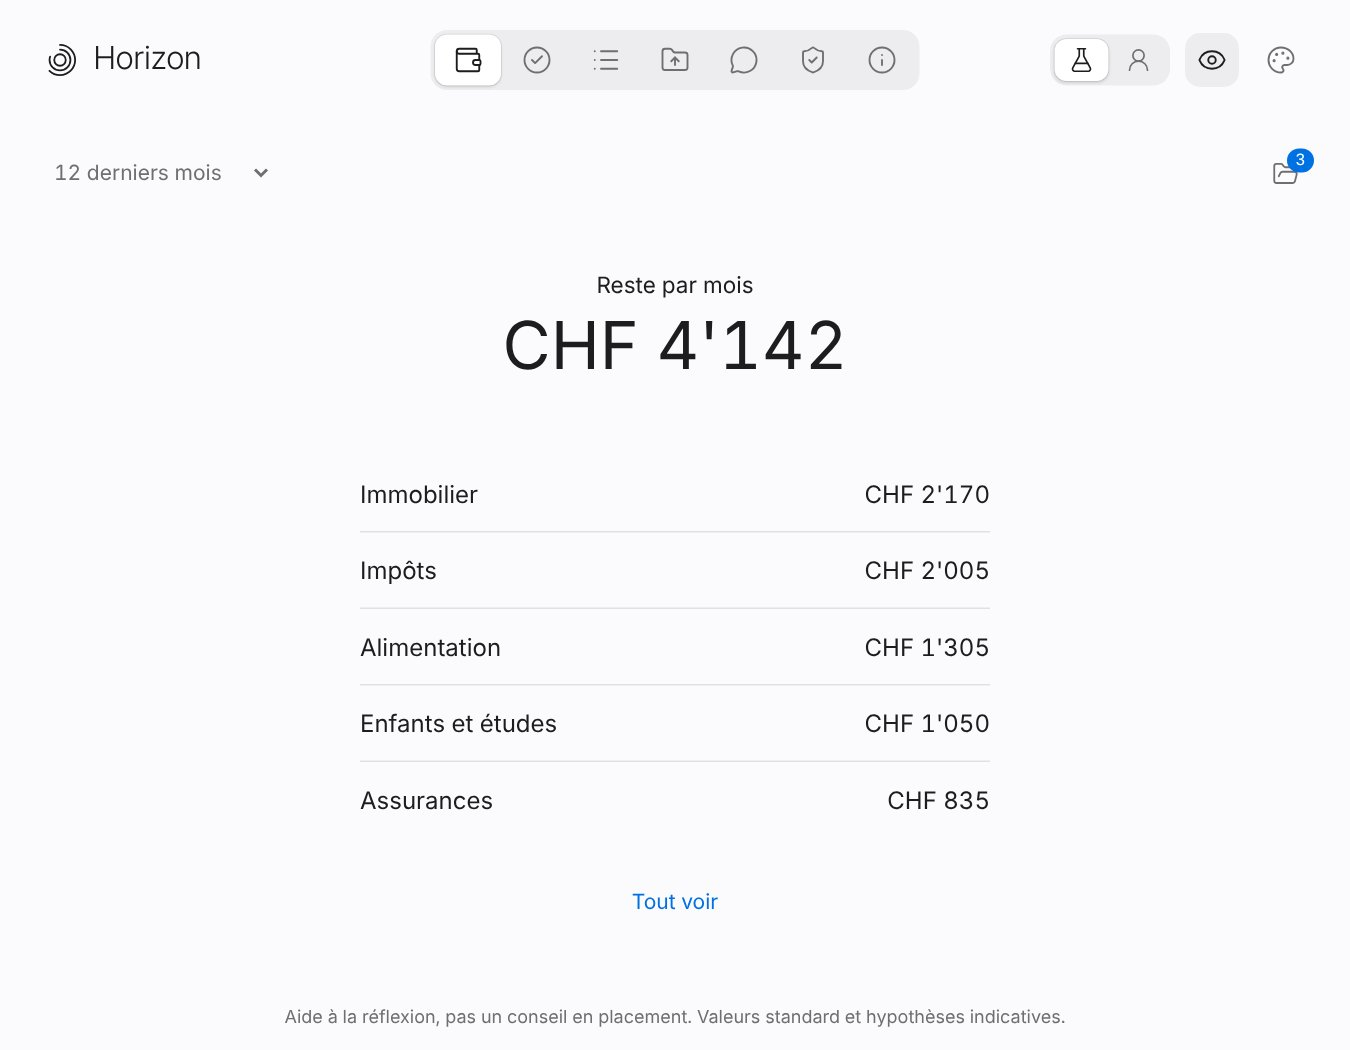
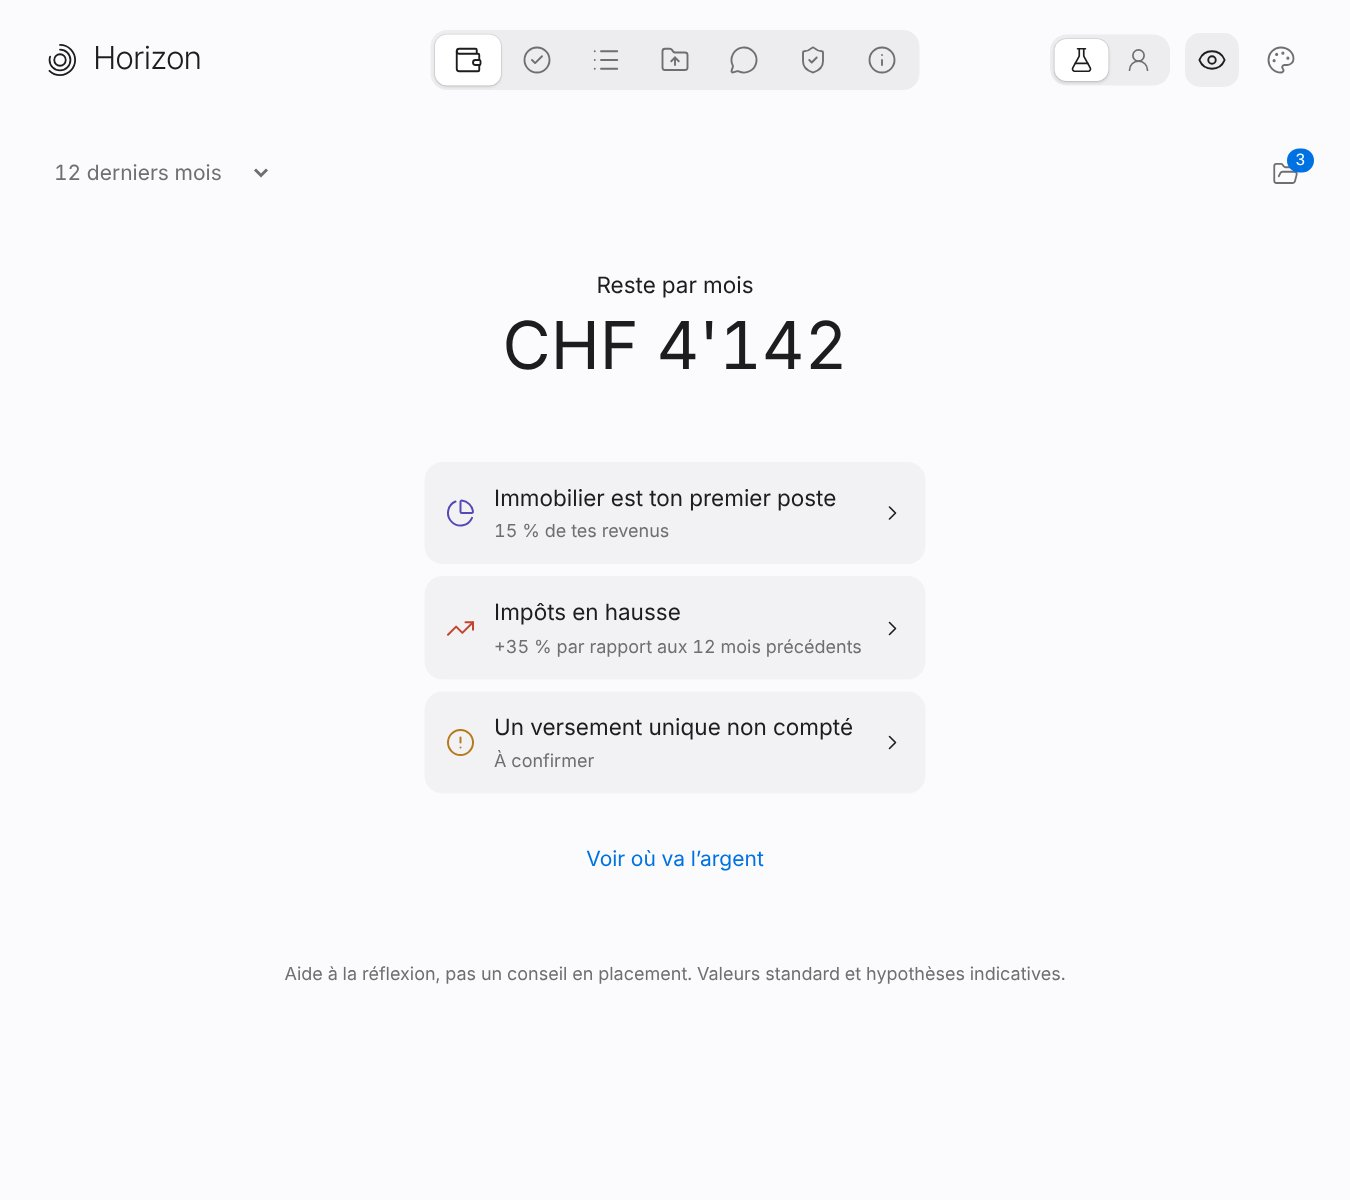
Budget: accueil en constats, schéma de flux des revenus vers les dépenses
Claude-Session: https://claude.ai/code/session_01UT5uZqmcmGMjmS4u3UQAYj

diff --git a/src/views/Budget.tsx b/src/views/Budget.tsx
@@ -1,5 +1,5 @@
-import { useEffect, useMemo, useState } from 'react';
-import { ArrowDownRight, ArrowLeft, ArrowUpRight, FolderOpen } from 'lucide-react';
+import { useEffect, useMemo, useState, type ReactElement } from 'react';
+import { AlertCircle, ArrowDownRight, ArrowLeft, ArrowUpRight, ChevronRight, FolderOpen, PieChart, TrendingDown, TrendingUp } from 'lucide-react';
 import { api, fmt, type Db, type State, type WatchStatus } from '../api';
 import '../budget.css';
 
@@ -246,6 +246,36 @@ export function Budget({ db, state, setState, reveal }: { db: Db; state: State; 
       </optgroup>
     </select>
   );
+  const GROUPS: [string, string, string[]][] = [
+    ['Logement', '#534AB7', ['logement', 'travaux', 'maison', 'energie', 'telecom']],
+    ['Impôts et assurances', '#185FA5', ['impots', 'assurances', 'sante']],
+    ['Vie courante', '#0F6E56', ['alimentation', 'restaurants', 'vetements', 'quotidien', 'dons']],
+    ['Famille', '#993556', ['enfants', 'famille']],
+    ['Transports', '#5F5E5A', ['vehicule', 'transports']],
+    ['Loisirs et voyages', '#854F0B', ['loisirs', 'voyages', 'abonnements']],
+  ];
+  const groups = useMemo(() => {
+    const known = new Set(GROUPS.flatMap((g) => g[2]));
+    const mk = (name: string, color: string, keys: string[]) => {
+      const items = cats.filter((c) => keys.includes(c.key));
+      return { name, color, v: items.reduce((t, c) => t + c.avg, 0), items };
+    };
+    const rest = cats.filter((c) => !known.has(c.key));
+    return [...GROUPS.map(([n, c, k]) => mk(n, c, k)), { name: 'Autres', color: '#8a8a85', v: rest.reduce((t, c) => t + c.avg, 0), items: rest }].filter((g) => g.v > 0).sort((p, q) => q.v - p.v);
+  }, [cats]);
+  const [flowSel, setFlowSel] = useState('');
+  const flowTotal = Math.max(avgIncome, avgSpend, 1);
+  const flowNodes = [...groups.map((g) => ({ ...g })), ...(reste > 0 ? [{ name: 'Reste', color: '#639922', v: reste, items: [] as typeof cats }] : [])];
+  const flowCur = flowNodes.find((g) => g.name === flowSel);
+  const insights = (() => {
+    const out: { icon: 'up' | 'down' | 'top' | 'todo' | 'once'; title: string; sub: string; go: 'all' | 'todo' }[] = [];
+    if (cats[0] && avgIncome > 0) out.push({ icon: 'top', title: `${LABEL[cats[0].key] ?? cats[0].key} est ton premier poste`, sub: `${Math.round((cats[0].avg / avgIncome) * 100)} % de tes revenus`, go: 'all' });
+    const moved = cats.filter((c) => c.trend !== null && c.prevAvg !== null && Math.abs(c.trend) > 0.15 && Math.abs(c.avg - c.prevAvg) > 50).sort((p, q) => Math.abs(q.avg - (q.prevAvg ?? 0)) - Math.abs(p.avg - (p.prevAvg ?? 0)))[0];
+    if (moved && moved.trend !== null) out.push({ icon: moved.trend > 0 ? 'up' : 'down', title: `${LABEL[moved.key] ?? moved.key} en ${moved.trend > 0 ? 'hausse' : 'baisse'}`, sub: `${moved.trend > 0 ? '+' : ''}${Math.round(moved.trend * 100)} % par rapport ${prevLabel}`, go: 'all' });
+    if (b.excluded.length > 0) out.push({ icon: 'once', title: b.excluded.length > 1 ? `${b.excluded.length} versements uniques non comptés` : 'Un versement unique non compté', sub: 'À confirmer', go: 'todo' });
+    else if (b.unknown.count > 0) out.push({ icon: 'todo', title: `${plural(b.unknown.count, 'ligne')} à identifier`, sub: 'Une minute', go: 'todo' });
+    return out.slice(0, 3);
+  })();
   const bienNames = [...new Set([...immoRows.map(([k]) => k), ...worksByBien.map(([k]) => k)])];
   const maxCat = Math.max(1, ...cats.map((c) => (catView === 'total' ? c.total : c.avg)));
 
@@ -262,26 +292,64 @@ export function Budget({ db, state, setState, reveal }: { db: Db; state: State; 
             <p className="unit">Reste{used.length > 1 ? ' par mois' : ''}</p>
             <p className={'big xl' + (reste < 0 ? ' neg' : '')}>{money(reste)}</p>
           </section>
-          <ul className="toplist">
-            {topCats.map((c) => (
-              <li key={c.key}><span>{LABEL[c.key] ?? c.key}</span><span>{money(c.avg)}</span></li>
+          <div className="insights">
+            {insights.map((i, n) => (
+              <button key={n} className="insight" onClick={() => setView(i.go)}>
+                {i.icon === 'up' ? <TrendingUp size={20} strokeWidth={1.6} color="#c4452d" /> : i.icon === 'down' ? <TrendingDown size={20} strokeWidth={1.6} color="#2f7d4f" /> : i.icon === 'top' ? <PieChart size={20} strokeWidth={1.6} color="#534AB7" /> : <AlertCircle size={20} strokeWidth={1.6} color="#b7791f" />}
+                <span className="t">{i.title}<small>{i.sub}</small></span>
+                <ChevronRight size={16} strokeWidth={1.6} />
+              </button>
             ))}
-          </ul>
-          <button className="morelink" onClick={() => setView('all')}>Tout voir</button>
+          </div>
+          <button className="morelink" onClick={() => setView('all')}>Voir où va l’argent</button>
         </>
       ) : null}
 
       {view === 'all' && last ? (
         <>
-          <div className="allhead">
-            <span className="muted small">{periodLabel}</span>
-            {used.length > 1 ? (
-              <div className="seg" role="tablist" aria-label="Affichage">
-                <button className={catView === 'moy' ? 'on' : ''} onClick={() => setCatView('moy')}>Par mois</button>
-                <button className={catView === 'total' ? 'on' : ''} onClick={() => setCatView('total')}>Total</button>
-              </div>
-            ) : null}
+          <svg className="flow" viewBox="0 0 400 300" role="img" aria-label="Flux des revenus vers les dépenses et le reste">
+            {(() => {
+              const H = 286, k = H / flowTotal, xl = 70, xr = 250;
+              let yl = 7;
+              let yr = 7;
+              const els: ReactElement[] = [];
+              flowNodes.forEach((g, i) => {
+                const h = Math.max(g.v * k, 2);
+                const r = Math.min(avgIncome, flowTotal) / flowTotal;
+                const hl = h * r;
+                const yl0 = yl;
+                const y2 = yr;
+                const y1 = yl0;
+                els.push(<path key={g.name} d={`M${xl} ${y1} C${xl + 80} ${y1} ${xr - 80} ${y2} ${xr} ${y2} L${xr} ${y2 + h} C${xr - 80} ${y2 + h} ${xl + 80} ${y1 + hl} ${xl} ${y1 + hl} Z`} fill={g.color} opacity={flowSel === g.name ? 0.6 : 0.3} onClick={() => setFlowSel(g.name)} style={{ cursor: 'pointer' }} />);
+                els.push(<rect key={g.name + 'r'} x={xr} y={y2} width={6} height={h} rx={2} fill={g.color} />);
+                els.push(<text key={g.name + 't'} x={xr + 12} y={y2 + Math.max(h / 2, 7) + 4} className="flowlab" onClick={() => setFlowSel(g.name)} style={{ cursor: 'pointer', fontWeight: flowSel === g.name ? 600 : 400 }}>{g.name}</text>);
+                yr += h + 3;
+                yl += hl;
+              });
+              els.push(<rect key="src" x={xl - 6} y={7} width={6} height={Math.min(avgIncome, flowTotal) * k} rx={2} fill="#534AB7" />);
+              els.push(<text key="srct" x={xl - 12} y={7 + (Math.min(avgIncome, flowTotal) * k) / 2 + 4} textAnchor="end" className="flowlab">Revenus</text>);
+              return els;
+            })()}
+          </svg>
+          <div className="flowdet">
+            {flowCur ? (
+              <>
+                <div className="fh"><b>{flowCur.name}</b><span>{money(flowCur.v)}{used.length > 1 ? ' par mois' : ''}</span></div>
+                {flowCur.items.length > 0 ? <ul className="muted small">{flowCur.items.map((c) => <li key={c.key} className="fi"><span>{LABEL[c.key] ?? c.key}</span><span>{money(c.avg)}</span></li>)}</ul> : null}
+              </>
+            ) : <p className="muted small center">Touche un flux pour voir le montant.</p>}
           </div>
+          <details className="drawer">
+            <summary>Toutes les catégories</summary>
+            <div className="allhead">
+              <span className="muted small">{periodLabel}</span>
+              {used.length > 1 ? (
+                <div className="seg" role="tablist" aria-label="Affichage">
+                  <button className={catView === 'moy' ? 'on' : ''} onClick={() => setCatView('moy')}>Par mois</button>
+                  <button className={catView === 'total' ? 'on' : ''} onClick={() => setCatView('total')}>Total</button>
+                </div>
+              ) : null}
+            </div>
           <ul className="catlist">
             {cats.map((c) => {
               const v = catView === 'total' ? c.total : c.avg;
@@ -295,6 +363,7 @@ export function Budget({ db, state, setState, reveal }: { db: Db; state: State; 
               );
             })}
           </ul>
+          </details>
           {prevYear.length > 0 ? <p className="muted small">Variation par rapport {prevLabel}, affichée au-dessus de 15 %.</p> : null}
           {bienNames.length > 0 ? (
             <>

diff --git a/src/budget.css b/src/budget.css
@@ -116,3 +116,17 @@
 .bien .bf { display: flex; flex-wrap: wrap; gap: 8px 22px; }
 .bien .bf div { display: flex; flex-direction: column; font-size: 13px; color: var(--ink-2); }
 .bien .bf b { font-weight: 500; font-size: 15px; color: var(--ink); }
+
+.insights { display: grid; gap: 8px; max-width: 460px; margin: 22px auto 0; }
+.insight { all: unset; box-sizing: border-box; display: flex; align-items: center; gap: 12px; padding: 13px 14px; border-radius: 12px; background: rgba(0,0,0,.035); cursor: pointer; font-size: 15px; }
+.insight:hover { background: rgba(0,0,0,.06); }
+.insight .t { flex: 1; display: flex; flex-direction: column; }
+.insight small { color: var(--ink-2); font-size: 12px; margin-top: 2px; }
+.flow { width: 100%; max-width: 460px; display: block; margin: 8px auto 0; }
+.flowlab { font-size: 11px; fill: var(--ink-2); }
+.flowdet { max-width: 460px; margin: 6px auto 18px; min-height: 40px; }
+.flowdet .fh { display: flex; justify-content: space-between; align-items: baseline; font-size: 16px; }
+.flowdet .fi { display: flex; justify-content: space-between; list-style: none; padding: 2px 0; }
+.flowdet ul { padding: 0; margin: 6px 0 0; }
+.center { text-align: center; }
+.flowdet .fh { gap: 12px; }

diff --git a/README.md b/README.md
@@ -54,7 +54,7 @@ Captures prises sur des données de démonstration inventées (famille fictive c
 
 ![Tout voir: catégories, immobilier, travaux](docs/screenshots/depenses-par-categorie.jpg)
 
-- **Budget** (accueil): un chiffre (ce qui reste par mois) et les cinq plus grosses dépenses. « Tout voir » ouvre les catégories (par mois ou en total, avec variation à période égale), l'immobilier et les travaux par bien. L'icône dossier ouvre les documents, les lignes à identifier, tes biens et les dépenses hors relevés. Période: un petit menu en haut.
+- **Budget** (accueil): un chiffre (ce qui reste par mois) et trois constats écrits par l’outil (premier poste, plus gros changement, ce qui est à confirmer). « Voir où va l’argent » ouvre un schéma de flux des revenus vers les dépenses (un toucher donne le montant), puis les catégories et les biens. L’icône dossier ouvre les documents, les lignes à identifier, tes biens et les dépenses hors relevés. Période: un petit menu en haut.
 - **Importer**: lit un dossier ou des fichiers, masque les identifiants.
 - **À valider**: faits proposés par la lecture des documents, en attente de ton accord.
 - **Données**: tout ce qui est connu, modifiable, avec historique.
